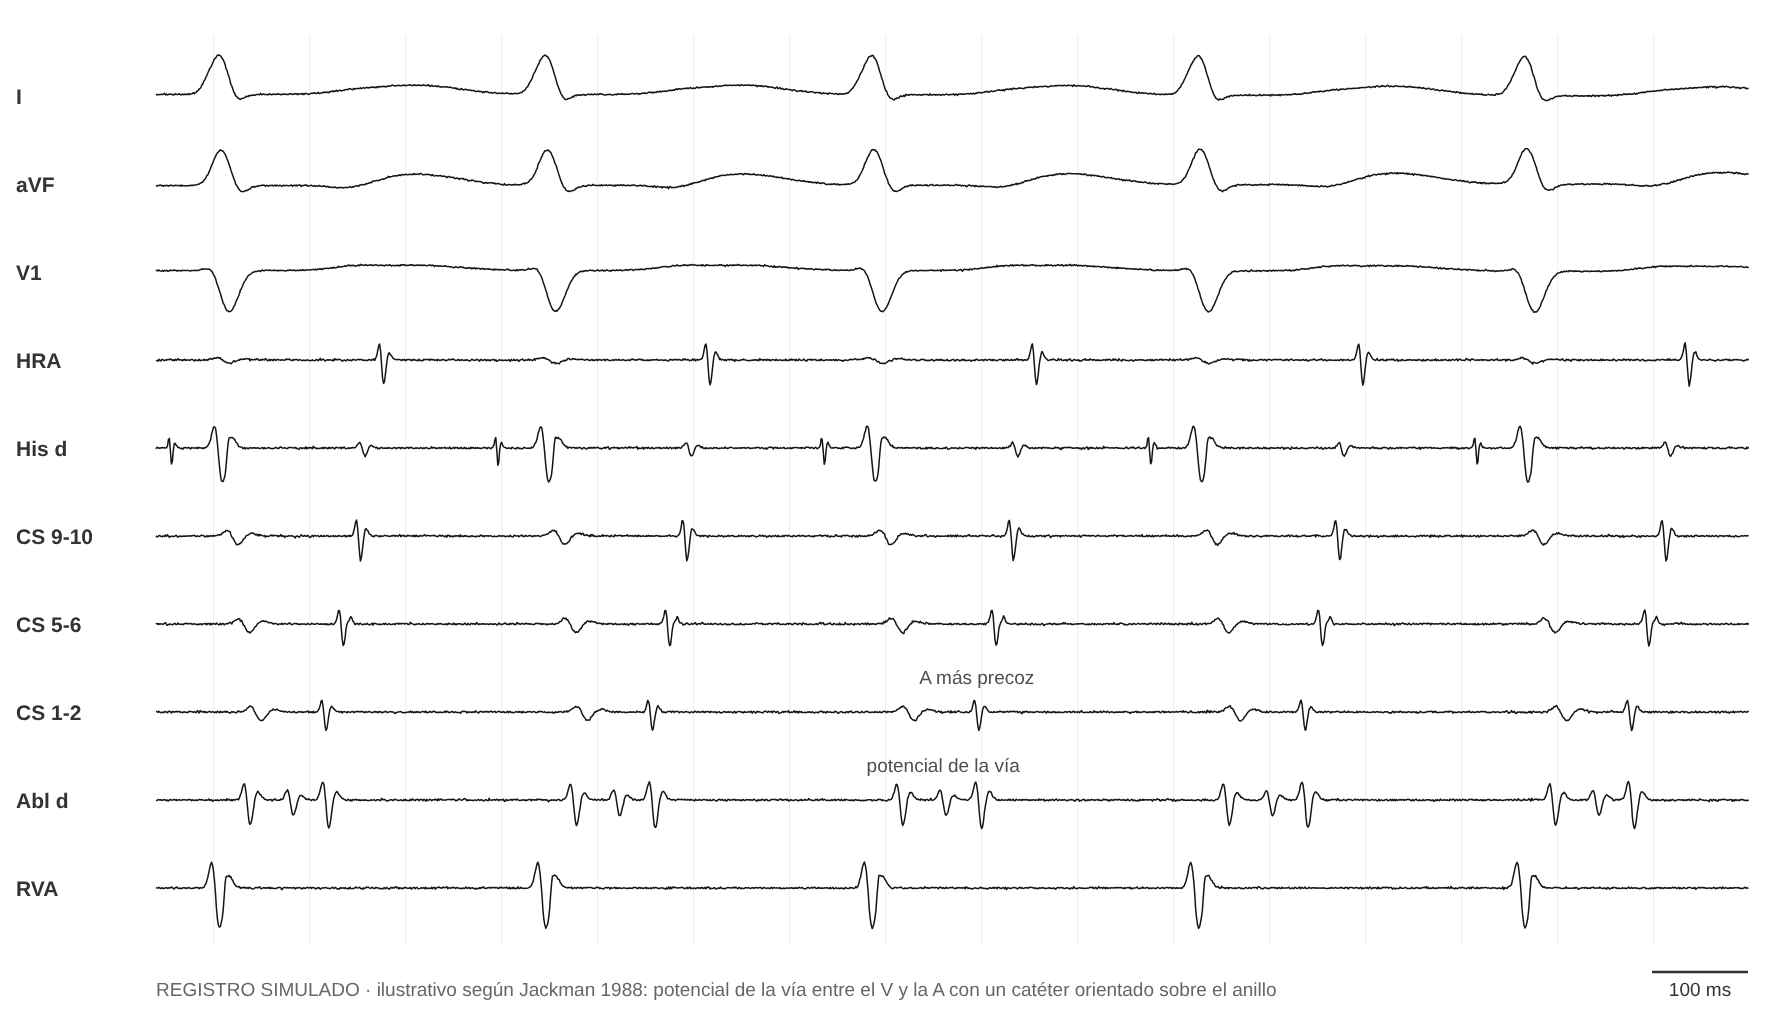
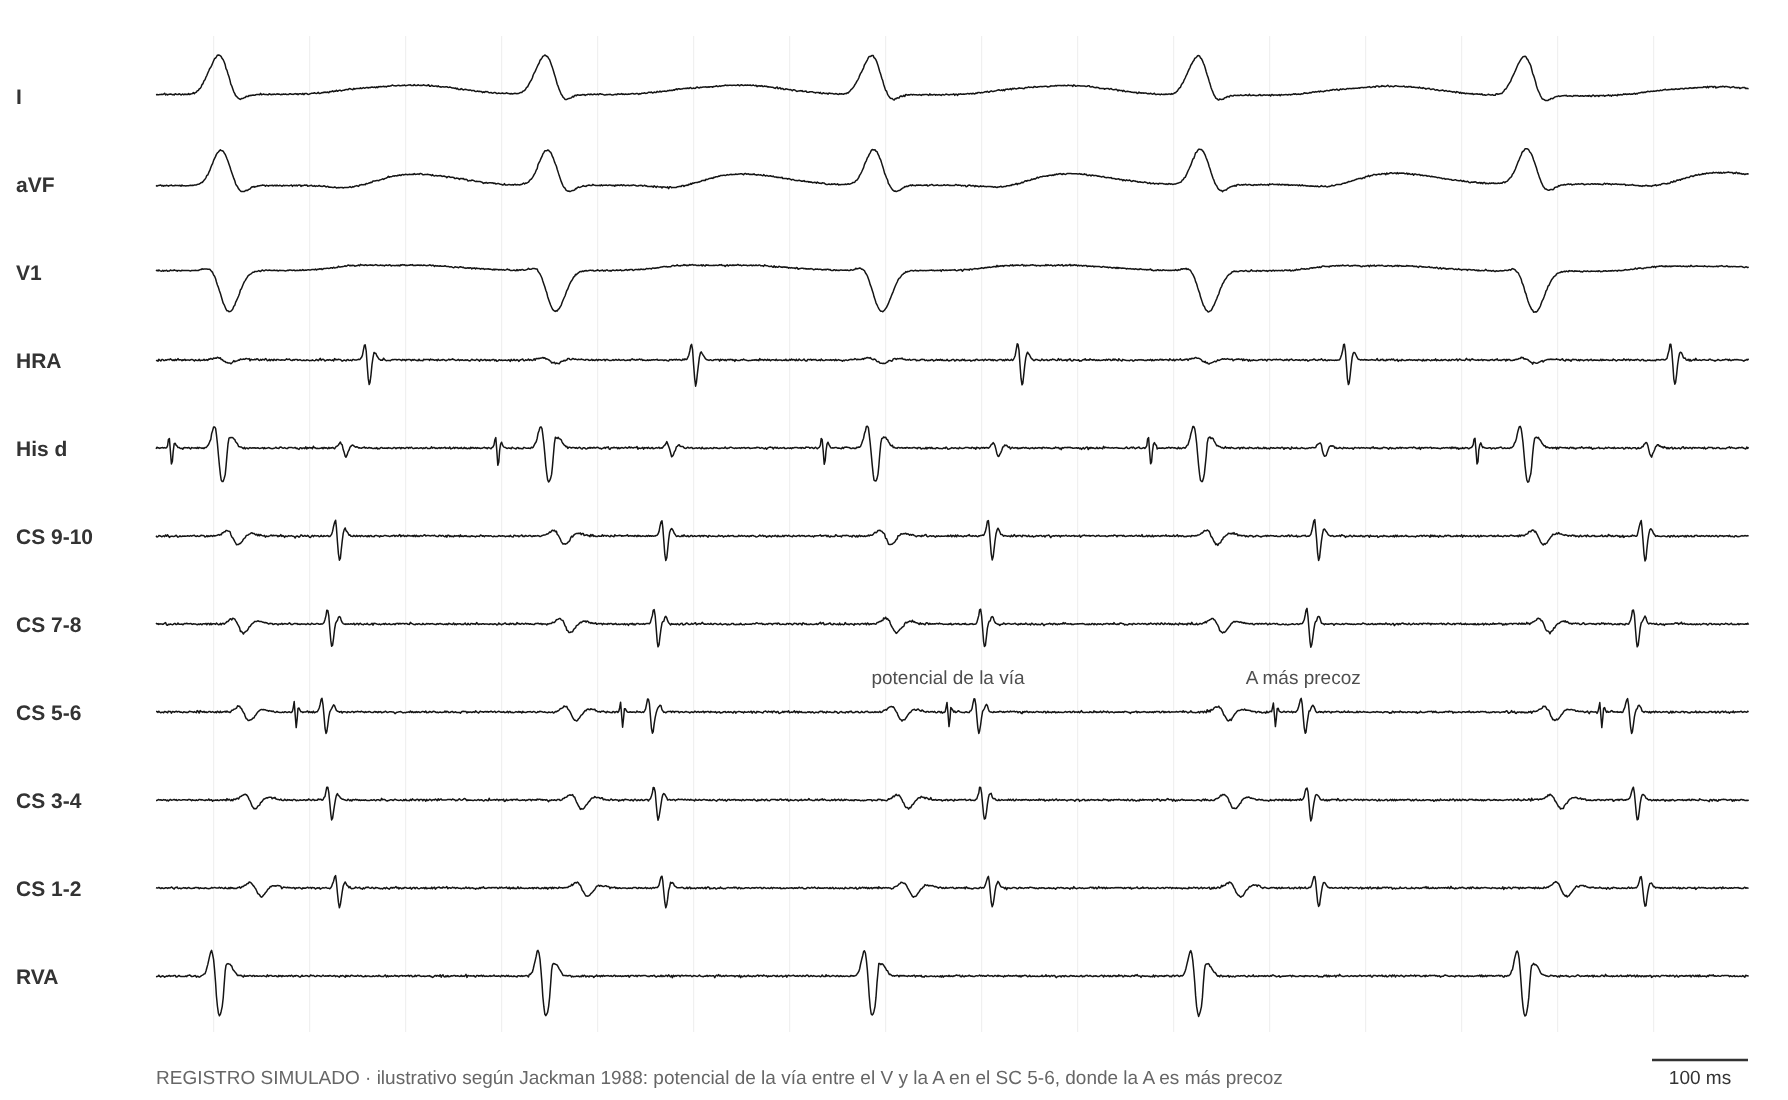
Vía oblicua: SC completo y potencial de la vía en SC 5-6
Claude-Session: https://claude.ai/code/session_01Pw5rjt62KK5LeJZoEyFiaM

diff --git a/sw.js b/sw.js
@@ -1,6 +1,6 @@
 // Permite instalar la app y abrirla sin conexión. Primero la red (siempre lo último publicado); si no hay, la copia.
 // Si cambiás un archivo, subí CACHE_VERSION.
-const CACHE_VERSION = 'mef-v55';
+const CACHE_VERSION = 'mef-v56';
 const ARCHIVOS = ['./', './index.html', './manifest.json', './iconos/icon-192.png', './iconos/icon-512.png'];
 self.addEventListener('install', e => e.waitUntil(caches.open(CACHE_VERSION).then(c => c.addAll(ARCHIVOS)).then(() => self.skipWaiting())));
 self.addEventListener('activate', e => e.waitUntil(caches.keys().then(ks => Promise.all(ks.filter(k => k !== CACHE_VERSION).map(k => caches.delete(k)))).then(() => self.clients.claim())));

diff --git a/herramientas/simulador/cases3.py b/herramientas/simulador/cases3.py
@@ -129,15 +129,15 @@ S['tada05'] = dict(win=(-100, 1800), pxms=0.42, channels=['His d', 'CS 1-2', 'Ab
     cal=[(pvc - 25, pvc, 'Abl d', 'V local −25'), (pvc, pvc + 95, 'His d', 'H retrógrado (V-H 95)')],
     marks=[(pvc + 60, 'I', 'EV: R en V1, eje inferior'), (sin[1] + 70, 'Abl d', 'A pequeña, V grande')])
 
-# 9. Vía oblicua (Jackman 1988): durante una TRAV por vía lateral izquierda, catéter ortogonal sobre la vía:
-#    V, potencial de la vía y A. Tiempos ilustrativos.
+# 9. Vía oblicua (Jackman 1988): TRAV ortodrómica por una vía lateral izquierda. SC completo; el potencial de la vía
+#    se registra en SC 5-6, entre el V y la A, que es la más precoz en ese mismo par. Tiempos ilustrativos.
 LC, VA = 340, 115
 vs = [i * LC for i in range(5)]
-S['jackman88'] = dict(win=(-60, 1600), pxms=0.48, channels=['HRA', 'His d', 'CS 9-10', 'CS 5-6', 'CS 1-2', 'Abl d', 'RVA'],
-    src='ilustrativo según Jackman 1988: potencial de la vía entre el V y la A con un catéter orientado sobre el anillo',
-    beats=[(v, 'n') for v in vs], atr=[(v + VA, 'left', -1) for v in vs], h_ante=[v - HV for v in vs],
-    extra={'Abl d': [(v + 35, 0.9, 1.4) for v in vs] + [(v + 80, 0.55, 0.5) for v in vs] + [(v + VA + 2, 1.0, 1.0) for v in vs]},
-    marks=[(vs[2] + 80, 'Abl d', 'potencial de la vía'), (vs[2] + VA, 'CS 1-2', 'A más precoz')])
+S['jackman88'] = dict(win=(-60, 1600), pxms=0.48, channels=['HRA', 'His d', 'CS 9-10', 'CS 7-8', 'CS 5-6', 'CS 3-4', 'CS 1-2', 'RVA'],
+    src='ilustrativo según Jackman 1988: potencial de la vía entre el V y la A en el SC 5-6, donde la A es más precoz',
+    beats=[(v, 'n') for v in vs], atr=[(v + VA, 'cs_mid', -1) for v in vs], h_ante=[v - HV for v in vs],
+    extra={'CS 5-6': [(v + 85, 0.6, 0.45) for v in vs]},
+    marks=[(vs[2] + 85, 'CS 5-6', 'potencial de la vía'), (vs[3] + VA, 'CS 5-6', 'A más precoz')])
 
 if __name__ == '__main__':
     only = sys.argv[3:] or list(S)

diff --git a/PENDIENTES.md b/PENDIENTES.md
@@ -32,7 +32,7 @@ En todos conviene mirar las amplitudes y la morfología del QRS, la visibilidad 
 - [ ] [ver](https://drsebastianmaldonado.github.io/Maniobras-EEF/figs/sim/caceres89.png) **Cáceres 1989** (rama-rama): His p con A pequeña, His (HV 85) y V; His d con potencial de rama derecha 60 ms antes del V; sin canal de rama aparte. Calibres H-H y V-V (310 y 290) para mostrar que el H-H precede al V-V. Publicados HV 80 y disociación; el resto ilustrativo.
 - [ ] [ver](https://drsebastianmaldonado.github.io/Maniobras-EEF/figs/sim/pm_doppa.png) **Doppalapudi 2008** (músculo papilar): morfología según el artículo; en la EV, His retrógrado visible 75 ms después del inicio del QRS. Debajo, ECG de 12 derivaciones (sinusal y EV: BRD, eje superior, QRS ~150, S en V5-V6). Tiempos y morfologías ilustrativos.
 - [ ] [ver](https://drsebastianmaldonado.github.io/Maniobras-EEF/figs/sim/tada05.png) **Tada 2005** (anillo mitral): morfología según el artículo; en la EV, His retrógrado visible 95 ms después del inicio del QRS. Debajo, ECG de 12 derivaciones (sinusal y EV: R en V1, concordancia positiva con S en V6, eje inferior, DI negativo, muesca en inferiores, QRS ~154). Tiempos y morfologías ilustrativos.
-- [ ] [ver](https://drsebastianmaldonado.github.io/Maniobras-EEF/figs/sim/jackman88.png) **Jackman 1988** (vía oblicua): potencial de la vía; tiempos míos.
+- [ ] [ver](https://drsebastianmaldonado.github.io/Maniobras-EEF/figs/sim/jackman88.png) **Jackman 1988** (vía oblicua): SC completo (9-10 a 1-2); potencial de la vía en SC 5-6, entre el V y la A, con la A más precoz en ese par; sin canal de ablación. Tiempos míos.
 - [ ] [ver](https://drsebastianmaldonado.github.io/Maniobras-EEF/figs/sim/pre_salto.png) **Didáctico, sin caso publicado:** salto del AH (estudio basal).
 - [ ] [ver](https://drsebastianmaldonado.github.io/Maniobras-EEF/figs/sim/ado_term.png) **Didáctico, sin caso publicado:** terminación con adenosina en una A.
 
